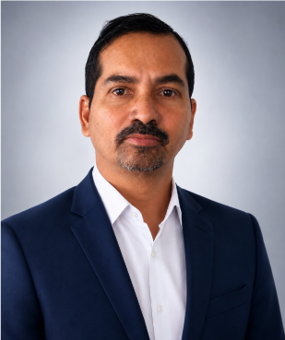
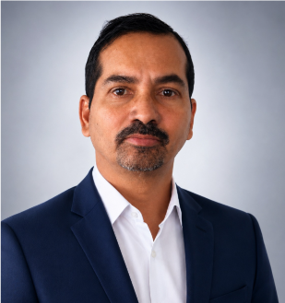
updates

diff --git a/client/src/components/CertificateCarousel.jsx b/client/src/components/CertificateCarousel.jsx
@@ -82,8 +82,7 @@ export default function CertificateCarousel() {
 
       <div className="relative max-w-7xl mx-auto px-4 sm:px-6 md:px-12">
 
-        {/* ── Heading row ── */}
-        <div className="flex flex-col sm:flex-row sm:items-end sm:justify-between gap-4 mb-10 md:mb-14">
+        <div className="mb-10 md:mb-14">
           <div>
             <div className="flex items-center gap-3 mb-3">
               <span className="text-xs font-bold uppercase tracking-widest text-[#9a7a3e]">Quality Certifications</span>
@@ -96,15 +95,6 @@ export default function CertificateCarousel() {
             <p className="mt-2 text-sm leading-relaxed text-[#64748b]" style={{ maxWidth: 440 }}>
               Certifications that support our commitment to consistent quality and production discipline.
             </p>
-          </div>
-
-          {/* count badge */}
-          <div className="shrink-0 border border-[#E2E8F0] bg-[#f7f9fb] px-5 py-4 flex items-center gap-3 self-start sm:self-auto">
-            <Award size={20} className="text-[#9a7a3e]" />
-            <div>
-              <strong className="block font-['JetBrains_Mono'] text-[#0F172A] font-bold text-lg leading-none">{total}</strong>
-              <span className="text-xs mt-0.5 block text-[#64748b]">Active certifications</span>
-            </div>
           </div>
         </div>
 